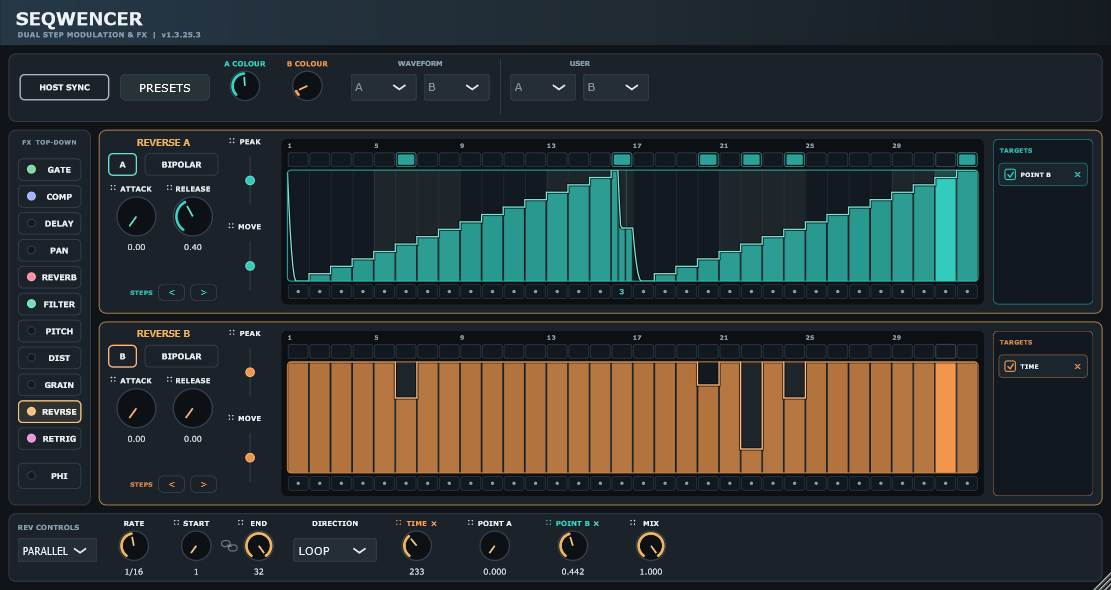
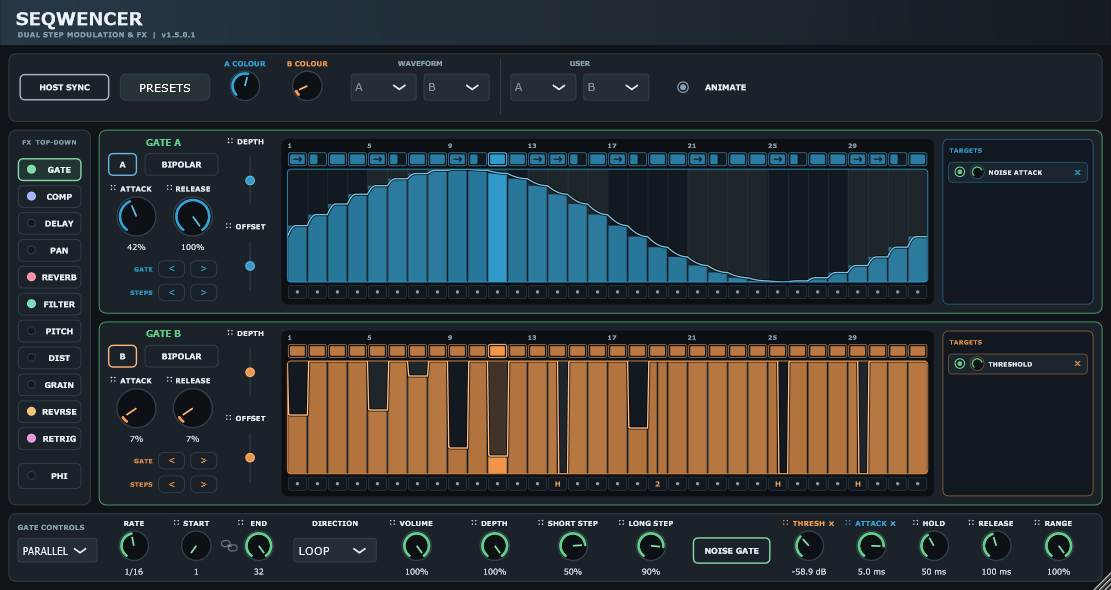
Add files via upload

diff --git a/README.md b/README.md
@@ -4,12 +4,17 @@
 
 [![Release](https://img.shields.io/github/v/release/sl2365/Seqwencer?style=for-the-badge-square&logo=github&logoColor=white&color=purple)](https://github.com/sl2365/Seqwencer/releases/latest/download/Seqwencer.rar)
 [![Release Date](https://img.shields.io/github/release-date/sl2365/Seqwencer?style=for-the-badge-square&logo=github&logoColor=white&color=yellow)](https://github.com/sl2365/Seqwencer/releases)
+
 [![Latest Asset Downloads](https://img.shields.io/github/downloads/sl2365/Seqwencer/latest/Seqwencer.rar?style=for-the-badge-square&logo=github&logoColor=white&label=downloads-latest&displayAssetName=false&color=blue)](https://github.com/sl2365/Seqwencer/releases/latest)
 [![Total Downloads](https://img.shields.io/github/downloads/sl2365/Seqwencer/total?style=for-the-badge-square&logo=github&logoColor=white&label=downloads-total&color=blue)](https://github.com/sl2365/Seqwencer/releases)
 
 </div>
 
 ![Seqwencer](Resources/Seqwencer1.jpg)
+
+![Seqwencer](Resources/Seqwencer2
+.jpg)
+
 
 Seqwencer is a Windows x64 VST3 dual step-sequencer and effects plug-in,
 designed for fast drawing, flexible modulation and simple routing.
@@ -87,10 +92,10 @@ advance but do not change Time, Feedback, Mix or the audio level.
   heights
 - Independent Rate, Start/End or linked Start/Length, Direction, Attack and
   Release for every effect
-- Bipolar Peak and Move controls for every sequencer lane
+- Bipolar Depth and Offset controls for every sequencer lane
 - Draggable A/B Attack and Release targets on every internal FX page
 - Draggable Start, End and Length targets on every internal FX page
-- Draggable A/B Peak and Move targets on every internal FX page
+- Draggable A/B Depth and Offset targets on every internal FX page
 - Loop, Bounce, Reverse, Played and Random directions
 - Straight and triplet rates from 1/128 through 1/1
 - Waveform drawing presets for each lane
@@ -98,10 +103,15 @@ advance but do not change Time, Feedback, Mix or the audio level.
   independent segment heights
 - Right-click bulk menus for step values, Gate modes and Retrigger blocks
 - Independent left/right nudging for step values and Gate modes
-- Per-lane target lists with temporary enable checkboxes and remove buttons
+- Per-lane target lists with FX-coloured enable LEDs, independent target-depth
+  knobs and remove buttons
 - Target captions that follow the adjustable A/B lane colours, with a distinct
   derived colour when a parameter is assigned to both lanes
 - Host synchronisation and note-triggered playback
+- Optional Animate display for seeing effective target positions without
+  changing stored values or writing automation
+- Consistent control readouts from startup, including `%`, `dB`, `ms`,
+  `Hz`/`kHz`, semitones, ratios, repeat multipliers and step counts
 
 Random uses repeatable shuffled passes: every selected step is visited once per
 pass, the order changes between passes, and saved projects recall the same
@@ -121,8 +131,9 @@ sequencer and therefore uses one Random stream for that pair.
 4. Click and drag inside a lane to draw its steps or individual divided
    segments.
 5. Drag any parameter caption beginning with `::` into the A or B target list.
-6. Tick or untick a target-list checkbox to pause or resume that assignment
-   without deleting it. Click its `X` to remove the assignment.
+6. Click a target-list LED to pause or resume that assignment without deleting
+   it. Drag its small knob vertically to set that target's individual depth;
+   double-click the knob to restore 100%. Click `X` to remove the assignment.
 
 The step shortcuts are:
 
@@ -193,20 +204,36 @@ the same manual range workflow but keeps range captions local, like its envelope
 controls.
 
 Each lane also has two minimal centre-detented faders beside its step field.
-`PEAK` scales the complete waveform: moving it down tames the pattern, while
-moving it up expands the pattern into its available headroom. `MOVE` translates
+`DEPTH` scales the complete waveform: moving it down tames the pattern, while
+moving it up expands the pattern into its available headroom. `OFFSET` translates
 the complete waveform vertically until its highest or lowest point reaches the
 field boundary. Both operations retain the relative shape of the programmed
-steps and divided segments; Peak is applied before Move. The step field updates
+steps and divided segments; Depth is applied before Offset. The step field updates
 to show the transformation selected by the manual faders without rewriting the
-stored pattern. Internally sequenced Peak/Move modulation is intentionally not
+stored pattern. Internally sequenced Depth/Offset modulation is intentionally not
 drawn, keeping the display stable and readable.
 
-Peak and Move are draggable targets on every internal FX page. Their target
+Depth and Offset are draggable targets on every internal FX page. Their target
 modulation uses the raw pre-transform sequence, so a lane can target its own
-Peak or Move value without recursively feeding the already transformed result
+Depth or Offset value without recursively feeding the already transformed result
 back into itself. PHI A-H provide the same manual controls, while their external
 destinations continue to be selected in PHI's Targets browser.
+
+Ordinary targets now use the saved knob position as their modulation reference.
+Unipolar sequencing travels from that saved value toward the control maximum;
+Bipolar sequencing moves symmetrically around it, limited by the nearest
+boundary. Mapping takes place in each parameter's normalised knob space, so
+skewed frequency and time controls retain their intended response. `ANIMATE` on
+the top panel temporarily shows these effective positions while leaving the
+saved values and host automation untouched.
+
+Each assigned target also has its own small 0-100% depth knob. This behaves like
+an individual modulation send: 0% leaves that destination at its saved knob
+position, while 100% applies the sequencer's complete movement. The lane's main
+Depth fader remains the global waveform-depth control and therefore affects all
+of its targets together. Target depths are stored in DAW projects and portable
+presets and remain independent between Sequencers A and B.
+Hovering a target's small depth knob shows its purpose and current percentage.
 
 ## Gate modes
 
@@ -364,8 +391,11 @@ Data/
 ```
 
 `Settings.ini` remembers the editor size and lane colours. Presets store the
-complete state of every internal effect, its sequencers and target assignments.
-Saving over an existing preset requires confirmation.
+complete state of every internal effect, its sequencers, target assignments and
+individual target depths. The compact preset browser places Load, Save, Delete,
+Init and Close in one compact row across the top. The current preset name sits
+above the list and Search sits below it, with every field matching the complete
+button-row width. Saving over an existing preset requires confirmation.
 
 The A Colour and B Colour knobs also control the colour of any draggable
 parameter caption assigned to that lane. A caption assigned to both lanes uses

diff --git a/Changelog.md b/Changelog.md
@@ -2,6 +2,79 @@
 
 Seqwencer development history, regression notes and planned work.
 
+## v1.5.1 compact horizontal preset browser
+
+- Moved Load, Save, Delete, Init and Close into a single compact row at the top
+  of the preset browser
+- Sized the browser, current-name field, preset list and Search field from the
+  exact combined width of the five buttons
+- Moved the current preset name above the list and Search beneath it
+- Removed the unused internal heading that left unnecessary empty space above
+  the controls
+
+## v1.5.0.1 target-list and label correction
+
+- Clamped the Targets viewport above the rounded bottom border so a seventh
+  target no longer leaks into or overlaps the panel edge
+- Added a short explanatory tooltip with the current percentage to each
+  per-target depth knob
+- Centred the A/B `DEPTH` and `OFFSET` captions over their vertical faders
+
+## v1.5.0 per-target depths and compact preset browser
+
+- Added an independent 0-100% depth control to every assigned target in both
+  sequencers while retaining each lane's existing Depth control as the global
+  waveform depth
+- Made 0% target depth return the destination to its saved knob position and
+  100% retain the previous full modulation, with independent values for A and B
+- Applied target depth consistently to ordinary FX controls, sequencer
+  Attack/Release, Start/End/Length and Depth/Offset destinations
+- Added Gate Volume's unity-neutral target scaling so a 0% target depth passes
+  the saved volume without gating
+- Appended all target-depth parameters after the existing parameter list to
+  preserve every pre-v1.5.0 host automation index
+- Widened each Targets panel for its small depth knobs and tightened the row
+  geometry so six assigned targets fit cleanly before scrolling is required
+- Widened the A/B `OFFSET` captions so their text, drag handles and assignment
+  clear marks remain visible
+- Reworked the preset browser to roughly two-thirds of its former width, with
+  a vertical button column on the left and matching Search/Name field widths
+- Added core and VST3 probe coverage for target-depth scaling, defaults,
+  formatting and independent A/B state
+
+## v1.4.1.1 animation and value-text correction
+
+- Removed the audio-block race that could briefly return animated controls to
+  their saved positions, including when the assigned sequence was flat
+- Avoided rewriting and repainting animated controls when their displayed
+  positions have not changed
+- Moved all visible FX value formatting into the parameters themselves so the
+  initial display, later edits and host parameter text always agree
+- Added permanent `%`, `dB`, `ms`, `Hz`/`kHz`, `st`, `:1`, `x`, `step`/`steps`
+  and Pan `C`/`L`/`R` text across the relevant controls
+- Changed Filter Resonance display from its internal `0.10`-`10.00` Q range to
+  the requested `0%`-`100%` presentation without changing its DSP range
+- Added probe coverage for the complete startup text of every FX control
+
+## v1.4.1 target-relative sequencing and Animate
+
+- Corrected every internal FX sequencer target so the target control's saved
+  value is its reference instead of an unrelated absolute sweep
+- Made Unipolar targets travel upward from the saved value and Bipolar targets
+  travel symmetrically around it, limited by the nearest boundary
+- Applied target mapping through each parameter's own normalised conversion so
+  skewed frequency and time controls retain their intended knob response
+- Renamed the visible and host-facing Peak/Move controls to Depth/Offset while
+  preserving their bipolar ranges, behaviour, internal IDs, parameter indices,
+  presets and automation compatibility
+- Added the global top-panel Animate LED, stored in `Data/Settings.ini`; it
+  shows effective target positions without changing saved values or writing
+  host automation
+- Replaced Targets-list checkboxes with LED controls coloured for the current
+  FX while retaining temporary bypass/restore behaviour
+- Added core regression coverage for saved-value references, symmetrical
+  Bipolar travel, Unipolar upward travel and combined Parallel targets
+
 ## v1.4.0 JUCE 9 upgrade
 
 - Updated the portable CMake and Windows build paths from JUCE 8.0.15 to
